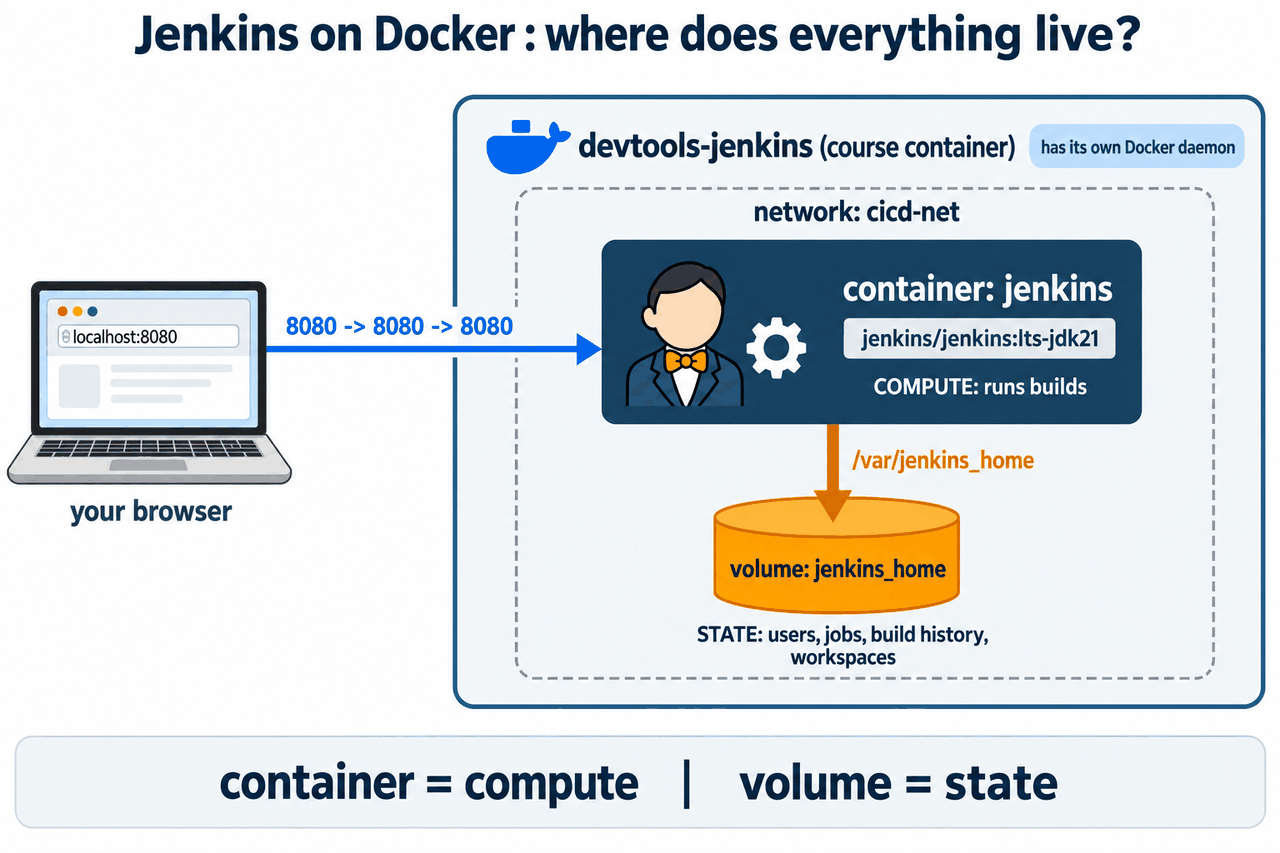
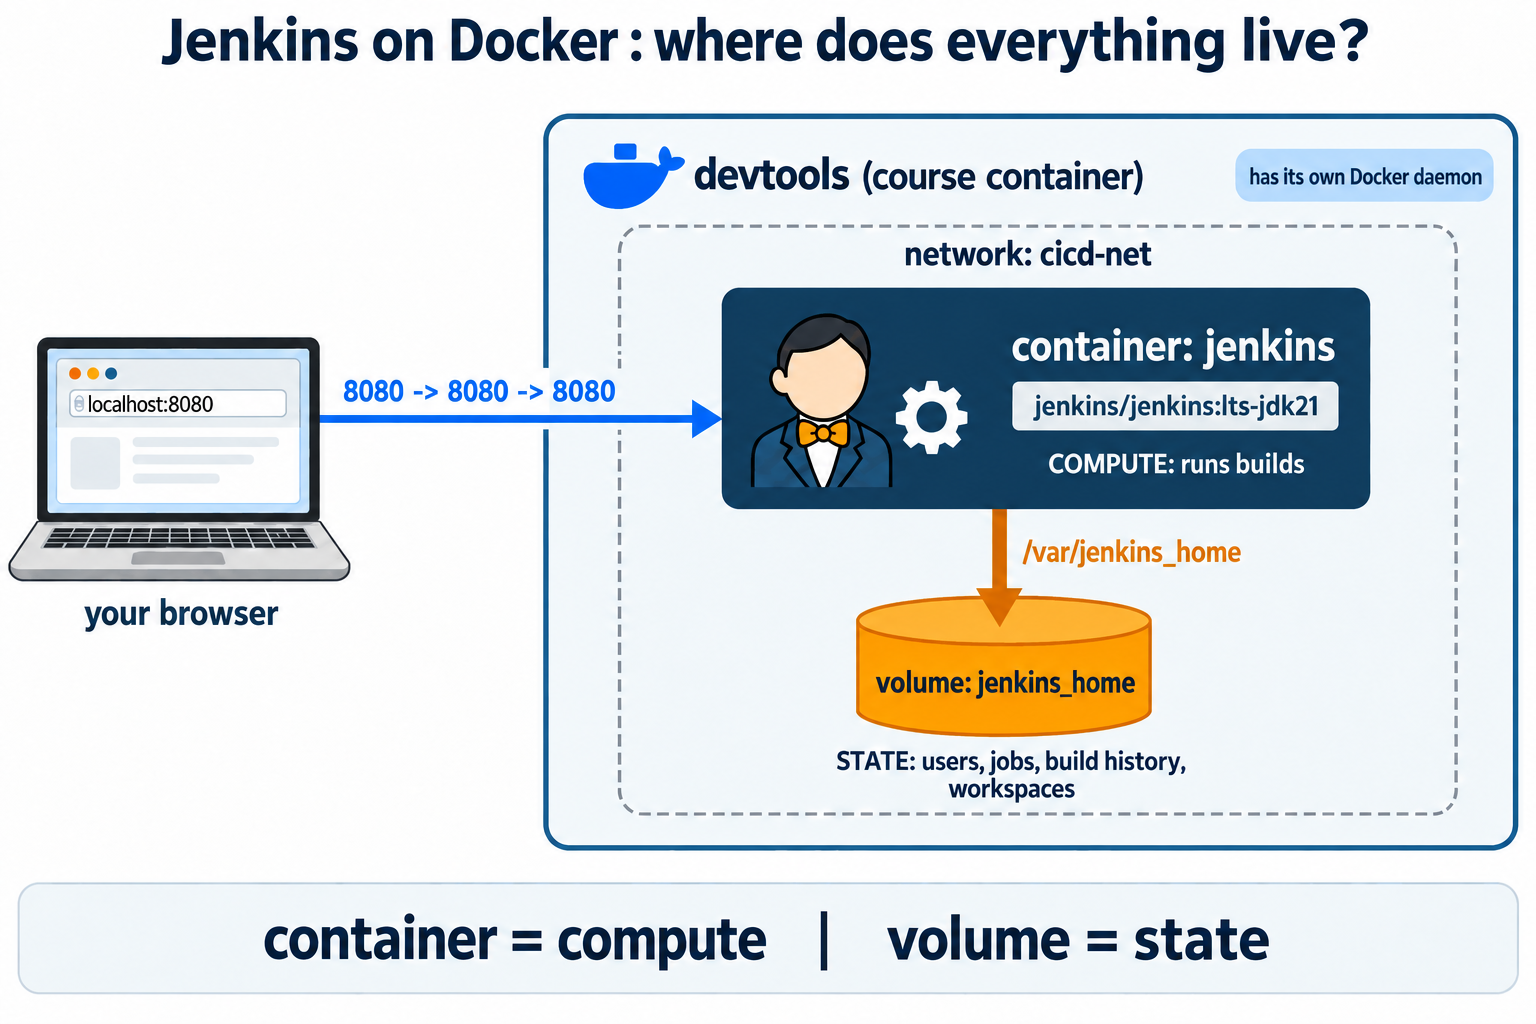
1

diff --git a/04_Jenkins/001_Jenikin/002_LAB_Declarative_Pipeline/README.md b/04_Jenkins/001_Jenikin/002_LAB_Declarative_Pipeline/README.md
@@ -124,27 +124,52 @@ plugin *Pipeline Graph View* (ติดตั้งมากับ suggested plu
 
 ---
 
-## สภาพตั้งต้น
+## 0. กลับเข้าเครื่องเรียน (ต่อจาก LAB 1)
 
-ต้องมีสถานะจบ LAB 1: คอนเทนเนอร์ `devtools-jenkins` ทำงาน และมีคอนเทนเนอร์ `jenkins` อยู่ภายใน
+แล็บนี้ใช้เครื่องเรียน `devtools` และ Jenkins ตัวเดิมจาก LAB 1 — **ไม่ต้องลบ ไม่ต้องสร้างกล่องใหม่** พิมพ์บนเครื่องของเรา :
 
 ```bash
-docker ps
-docker exec devtools-jenkins docker ps
+docker start devtools            # ถ้ารันอยู่แล้วก็ไม่เป็นไร
+ssh root@localhost -p 2222       # password : passwd
 ```
 
-✅ **สิ่งที่ต้องเห็น** (ตัดเฉพาะแถวที่เกี่ยวข้อง):
+> 📝 **คำอธิบาย:** `docker start devtools` ปลุกกล่องเรียนตัวเดิมขึ้นมาพร้อมทุกอย่างที่ทำไว้ใน LAB 1 (ถ้ากล่องรันอยู่แล้ว คำสั่งนี้แค่พิมพ์ชื่อ `devtools` กลับมา ไม่มีอะไรเสีย) · Docker ข้างในกล่องจะปลุก `jenkins` ให้เองเพราะ LAB 1 สร้างไว้ด้วย `--restart unless-stopped` — รอบทดสอบจริงหน้า login ตอบใน 7–9 วินาที (แต่มีหนึ่งรอบที่ใช้ ~4 นาที) · `ssh ... -p 2222` เข้าไปทำงานข้างในกล่องเหมือน LAB 1 (หรือใช้ VS Code **Remote-SSH** ไปที่ `root@localhost:2222`)
+>
+> ⚠ **ห้าม `docker rm -f devtools`** — Jenkins, job `first-freestyle` และประวัติ build ทั้งหมดอยู่ข้างในกล่องนี้ ลบแล้วต้องเริ่ม LAB 1 ใหม่
 
-```text
-CONTAINER ID   IMAGE                         ...   NAMES
-...            tuchsanai/devtools:2569_1     ...   devtools-jenkins
-CONTAINER ID   IMAGE                         ...   NAMES
-...            jenkins/jenkins:lts-jdk21     ...   jenkins
+---
+
+## 1. เข้าโฟลเดอร์แล็บ และตรวจว่า Jenkins จาก LAB 1 ยังอยู่
+
+คำสั่งต่อจากนี้พิมพ์**ข้างในเครื่องเรียน** :
+
+```bash
+cd ~/labwork/DevTools/04_Jenkins/001_Jenikin/002_LAB_Declarative_Pipeline
+git -C ~/labwork/DevTools pull
+ls
+docker ps --format 'table {{.Names}}\t{{.Status}}\t{{.Ports}}'
+curl -s -o /dev/null -w "%{http_code}\n" http://localhost:8080/login
 ```
 
-เปิด http://localhost:8080 และเข้าสู่ระบบด้วย `admin` / `admin2569`
+> 📝 **คำอธิบาย:** `cd` เข้าโฟลเดอร์ LAB 2 ในรีโพที่ clone ไว้ตั้งแต่ LAB 1 ส่วนที่ 1 · `git -C ~/labwork/DevTools pull` ดึงเนื้อหาล่าสุดของวิชา (`-C` = ให้ git ทำงานในโฟลเดอร์นั้นโดยไม่ต้อง `cd` ไป — ถ้าไม่มีอะไรใหม่จะขึ้น `Already up to date.`) · `ls` ดูของในแล็บ — ไฟล์ `Jenkinsfile` คือ**สคริปต์ฉบับเสร็จของแล็บนี้** เก็บไว้เทียบตอนท้าย ไม่ต้องใช้ตอนเริ่ม ·
+> `docker ps --format 'table ...'` แสดงเฉพาะสามคอลัมน์ที่อยากดู : ชื่อ (`{{.Names}}`) สถานะ (`{{.Status}}`) และ port (`{{.Ports}}`) โดย `\t` คั่นคอลัมน์ด้วย tab · `curl -s -o /dev/null -w "%{http_code}\n"` ยิงไปที่หน้า login ของ Jenkins แบบเงียบ (`-s`) ทิ้งเนื้อหาหน้าเว็บ (`-o /dev/null`) แล้วพิมพ์แค่รหัสสถานะ HTTP (`-w`)
 
-> ยังไม่มี? ย้อนไปทำ [LAB 1](../001_LAB_Jenkins_On_Docker/README.md) ก่อน (ใช้เวลาประมาณ 40 นาที)
+✅ **Expected output** — ต้องเห็นครบสามอย่าง : ไฟล์ในแล็บ · `jenkins` สถานะ `Up` พร้อม port `8080` · และเลข `200`
+
+```
+Jenkinsfile  README.md  images
+NAMES     STATUS              PORTS
+jenkins   Up About a minute   0.0.0.0:8080->8080/tcp, [::]:8080->8080/tcp, 50000/tcp
+200
+```
+
+> ถ้าขึ้น `000` หรือ `503` แทน `200` แปลว่า Jenkins ยังโหลดไม่เสร็จ (เปิดเว็บจะเห็น **Starting Jenkins**) — ปกติไม่กี่วินาที แต่รอบทดสอบจริงหนึ่งรอบใช้ ~4 นาที รอแล้วสั่ง `curl` ใหม่ อย่าลบหรือ restart ซ้ำ · ถ้า `docker ps` ไม่มีแถว `jenkins` เลย ดูแถวแรกของ [แก้ปัญหาที่พบบ่อย](#แก้ปัญหาที่พบบ่อย)
+
+เปิด http://localhost:8080 และเข้าสู่ระบบด้วย `admin` / `admin2569` — ต้องเห็น job `first-freestyle` จาก LAB 1
+
+![Dashboard ที่มี first-freestyle จาก LAB 1](../001_LAB_Jenkins_On_Docker/images/lab1_s22_dashboard_after_recreate.png)
+
+> ยังไม่มี devtools หรือ jenkins? ย้อนไปทำ [LAB 1](../001_LAB_Jenkins_On_Docker/README.md) ส่วนที่ 0–1 และการทดลองที่ 1–4 ก่อน
 
 ---
 
@@ -680,7 +705,7 @@ Post Actions success
 
 | อาการ | สาเหตุ | วิธีแก้ |
 |---|---|---|
-| เปิด `localhost:8080` ไม่ได้ | devtools หรือ Jenkins ภายในยังไม่ทำงาน | `docker start devtools-jenkins` รอ ~20 วินาที แล้วตรวจ `docker exec devtools-jenkins docker ps` |
+| เปิด `localhost:8080` ไม่ได้ หรือ `docker ps` ไม่มี `jenkins` | devtools หรือ Jenkins ภายในยังไม่ทำงาน | บนเครื่องเรา `docker start devtools` รอไม่กี่วินาที (รอบทดสอบจริง ~7 วินาที) แล้วตรวจ `docker exec devtools docker ps` · ถ้าไม่มี `jenkins` เลย ให้ย้อนทำ LAB 1 |
 | ถูกส่งกลับไปหน้า Sign in | session หมดอายุหลัง restart | เข้าสู่ระบบด้วย `admin` / `admin2569` |
 | หาเมนู Stages ในหน้า build ไม่เจอ | Jenkins รุ่นนี้ตั้งชื่อเมนูระดับ build ว่า **Pipeline Overview** | ระดับ build ใช้ Pipeline Overview · ระดับ job ใช้ Stages |
 | ไม่มีเมนู Build with Parameters | Jenkins ยังไม่ได้รันสคริปต์ที่มี `parameters` | กด Build Now หนึ่งครั้งหลัง Save แล้วกลับไปหน้า job |

diff --git a/04_Jenkins/001_Jenikin/readme.md b/04_Jenkins/001_Jenikin/readme.md
@@ -36,56 +36,43 @@
 
 ## เริ่มระบบ
 
-รันคำสั่ง canonical นี้บนเครื่องหลัก:
+รันคำสั่ง canonical นี้บนเครื่องหลัก — **ครั้งเดียวตอนเริ่ม LAB 1** ใช้ต่อได้ถึง LAB 6 (รายละเอียดทุก flag อยู่ใน [LAB 1 ส่วนที่ 0](./001_LAB_Jenkins_On_Docker/README.md#0-เตรียมเครื่องเรียน)):
 
 ```bash
-docker run -dit --name devtools-jenkins --privileged \
-  --tmpfs /run -v jenkins-dind:/var/lib/docker \
-  -p 2222:22 -p 8080:8080 -p 8000:8000 -p 3000:3000 \
+docker rm -f devtools
+docker run -dit --name devtools --privileged --tmpfs /run \
+  -p 2222:22 -p 8080:8080 -p 3000:3000 -p 8000:8000 \
   tuchsanai/devtools:2569_1
-docker ps
+ssh root@localhost -p 2222        # password : passwd
 ```
 
-✅ **สิ่งที่ต้องเห็น** (ตัดเฉพาะแถวที่เกี่ยวข้อง):
+> `docker rm -f devtools` ทำเฉพาะตอนเริ่ม LAB 1 เท่านั้น หลังจากนั้น Jenkins และข้อมูลทั้งหมดอยู่ข้างใน `devtools` ให้ใช้ `docker start devtools` แทนการลบ
 
-```text
-...
-CONTAINER ID   IMAGE                         ...   NAMES
-...            tuchsanai/devtools:2569_1    ...   devtools-jenkins
-```
-
-เข้า shell ของ devtools:
+ใน shell ของ devtools จัดเตรียมชุดสอนจาก public repository:
 
 ```bash
-ssh root@localhost -p 2222
-```
-
-✅ **สิ่งที่ต้องเห็น**:
-
-```text
-root@...:~#
-```
-
-เมื่อ SSH ถามรหัสผ่าน ใช้ `passwd` จากนั้นจัดเตรียมชุดสอนจาก public repository:
-
-```bash
-if [ -d "$HOME/DevTools/.git" ]; then
-  git -C "$HOME/DevTools" pull
-else
-  git clone --depth 1 https://github.com/Tuchsanai/DevTools.git "$HOME/DevTools"
-fi
-export COURSE_ROOT="$HOME/DevTools/04_Jenkins/001_Jenikin"
-echo 'export COURSE_ROOT="$HOME/DevTools/04_Jenkins/001_Jenikin"' > /etc/profile.d/course.sh
+mkdir -p ~/labwork && cd ~/labwork
+git clone https://github.com/Tuchsanai/DevTools.git
+cd DevTools/04_Jenkins/001_Jenikin/001_LAB_Jenkins_On_Docker
+echo 'export COURSE_ROOT="$HOME/labwork/DevTools/04_Jenkins/001_Jenikin"' > /etc/profile.d/course.sh
+source /etc/profile.d/course.sh && ls "$COURSE_ROOT"
 ```
 
 ✅ **สิ่งที่ต้องเห็น** (รันครั้งแรก):
 
 ```text
-Cloning into '/root/DevTools'...
-...
+Cloning into 'DevTools'...
+001_LAB_Jenkins_On_Docker
+002_LAB_Declarative_Pipeline
+003_LAB_Docker_Build_Push
+004_LAB_Pipeline_From_Git
+005_LAB_Webhook_Trigger
+006_LAB_CICD_Capstone
+Jenkins_CICD_Docker_Slides.html
+readme.md
 ```
 
-ถ้ามี `~/DevTools` อยู่แล้ว ต้องเห็นผลจาก `git pull` เช่น `Already up to date.` แทน การวัดใน container ทดสอบพบว่า shallow clone ทั้ง repository มีขนาด `221M` ซึ่งไม่เกิน 300 MB จึงใช้ clone ธรรมดาและไม่ต้อง sparse checkout
+ถ้าเคย clone ไว้แล้ว ให้ใช้ `git -C ~/labwork/DevTools pull` แทน · clone เต็มมีขนาด 1.3 GB (รอบทดสอบใช้ 65–80 วินาที) ถ้าเน็ตช้าใช้ `git clone --depth 1 ...` ซึ่งวัดได้ราว `221M`
 
 URL สำหรับผู้เรียน:
 
@@ -109,28 +96,29 @@ URL สำหรับผู้เรียน:
 
 ## กู้สถานะหลัง restart หรือปิดเครื่อง
 
-เปิด devtools ตัวเดิมและรอ inner Docker ประมาณ 20 วินาที:
+เปิด devtools ตัวเดิม (ห้ามลบ `devtools` เพราะ Jenkins อยู่ข้างใน):
 
 ```bash
-docker start devtools-jenkins
-sleep 20
-docker exec devtools-jenkins docker ps
+docker start devtools
+docker exec devtools docker ps
 ```
 
 ✅ **สิ่งที่ต้องเห็น** (ตัดเฉพาะแถวที่เกี่ยวข้อง):
 
 ```text
-devtools-jenkins
+devtools
 CONTAINER ID   IMAGE   ...   NAMES
 ...            ...     ...   jenkins
 ```
+
+รอบทดสอบจริง `docker stop` + `docker start devtools` ได้ inner Docker กลับมาใน 1 วินาที และหน้า login ของ Jenkins ตอบ `200` ใน 7 วินาที (`docker restart devtools` : 3 วินาที / 9 วินาที) ถ้า `docker ps` ยังว่าง รออีกไม่กี่วินาทีแล้วสั่งใหม่ · หน้าเว็บที่ขึ้น **Starting Jenkins** (`/login` = `503`) แปลว่ายังโหลดอยู่ บางรอบนานถึง ~4 นาที ให้รอ
 
 Jenkins และ webapp ที่สร้างด้วย `--restart unless-stopped` จะกลับมาเอง งานและ build history อยู่ใน named volumes จึงไม่ต้องทำ wizard ซ้ำ
 
 ถ้าตามไม่ทัน ให้เข้า devtools แล้วใช้ bootstrap ไปยังสถานะจบ LAB ที่ต้องการ:
 
 ```bash
-docker exec -it devtools-jenkins bash
+docker exec -it devtools bash
 ```
 
 ✅ **สิ่งที่ต้องเห็น**:

diff --git a/04_Jenkins/001_Jenikin/003_LAB_Docker_Build_Push/README.md b/04_Jenkins/001_Jenikin/003_LAB_Docker_Build_Push/README.md
@@ -140,14 +140,14 @@ catfood-shop/
 
 ต้องจบ LAB 2 แล้ว: devtools container ทำงาน มี network `cicd-net`, container `jenkins`, volume `jenkins_home` และ job `first-pipeline`
 
-> **Prerequisite:** devtools ต้อง publish port `3000` ด้วย (คำสั่ง canonical ใน [readme หลัก](../readme.md) มี `-p 3000:3000` แล้ว) หากสร้าง devtools ไว้ก่อนหน้านี้โดยไม่มี port 3000 ให้สร้างใหม่ด้วยคำสั่ง canonical ข้อมูล Docker ภายในอยู่ใน volume `jenkins-dind` จึงไม่หาย
+> **Prerequisite:** ร้านแมวของแล็บนี้เปิดที่ port `3000` — port 3000 เปิดไว้แล้วตั้งแต่ LAB 1 ส่วนที่ 0 (`-p 3000:3000`) ไม่ต้องสร้าง devtools ใหม่
 
 > **Prerequisite Docker Hub:** สมัครบัญชี ยืนยันอีเมล และสร้าง **Access Token สิทธิ์ Read & Write** แนะนำให้สร้าง repository `catfood-shop` แบบ **Public** ไว้ก่อน (ถ้าไม่สร้าง Docker Hub จะสร้างให้อัตโนมัติตอน push ตามค่า Default privacy ของบัญชี)
 
 ใน shell ของ devtools กำหนดตัวแปรที่ใช้ทั้งแล็บ:
 
 ```bash
-COURSE_ROOT="$HOME/DevTools/04_Jenkins/001_Jenikin"
+COURSE_ROOT="$HOME/labwork/DevTools/04_Jenkins/001_Jenikin"
 LAB="$COURSE_ROOT/003_LAB_Docker_Build_Push"
 docker ps --format '{{.Names}}\t{{.Status}}'
 ```
